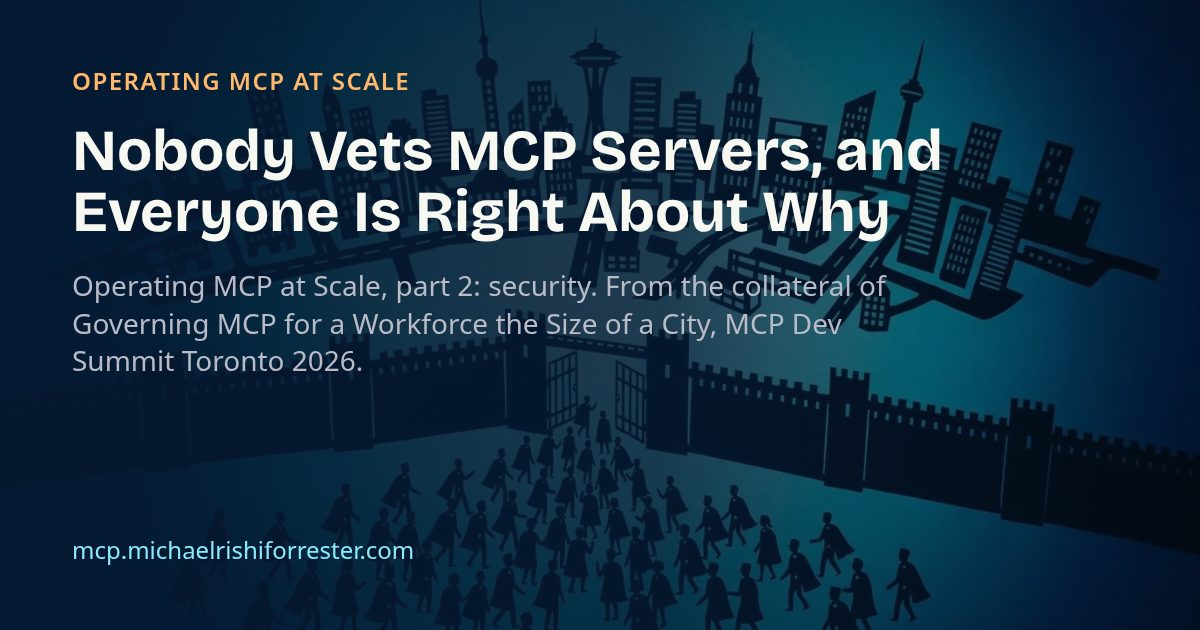
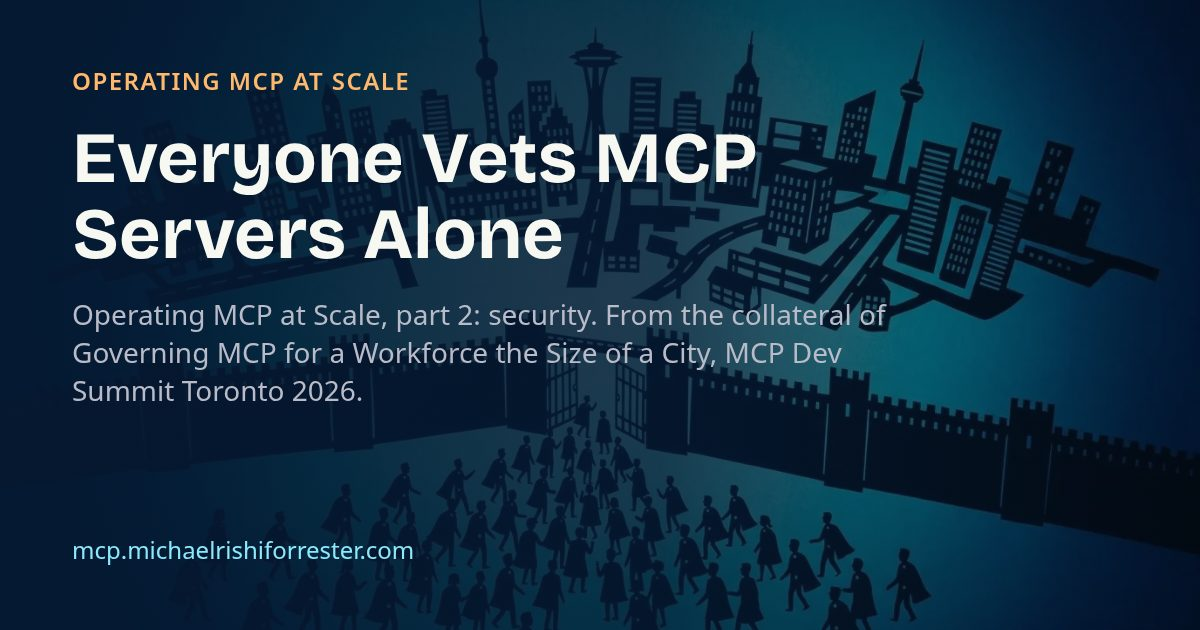
Build the city on a Death Star that reads as one, and open the descent on the statement
The dark disc the city appeared to sit on was the floor of the sky. The
city now stands on a real sphere with the superlaser dish, the
equatorial trench, panel seams and the deck's yellow outline, seen side
on at orbit with the city as its crown, in space with a starfield. The
descent opens on "Two-thirds of a Death Star" with Accenture's
approximately 814,000 people, and a shade behind the title keeps it
readable. Part two carries its new title, Everyone Vets MCP Servers Alone.

Issue #8

Changed region(s): [[0.0617, 0.2111, 0.8017, 0.6333]]

diff --git a/src/scene/Skyline.tsx b/src/scene/Skyline.tsx
@@ -1,14 +1,16 @@
-// ABOUTME: The city at night as instanced silhouettes under a drifting Death Star, in the deck's shadow-play look, lit by the silhouette shader.
+// ABOUTME: The city at night built on a Death Star, in the deck's shadow-play look: silhouette towers on the station's north cap.
 // ABOUTME: Loaded lazily after first paint; nothing here is needed to read the page.
 
 import { Canvas, useFrame } from "@react-three/fiber";
 import { Bloom, EffectComposer } from "@react-three/postprocessing";
 import { useMemo, useRef, type RefObject } from "react";
 import * as THREE from "three";
+import { DEATH_STAR_CENTER, DEATH_STAR_RADIUS, deathStarMaterial } from "./deathStar";
 import { silhouetteMaterial } from "./silhouette";
 import { SkyDome } from "./SkyDome";
 
 const COUNT = 2600;
+const UP = new THREE.Vector3(0, 1, 0);
 const SPREAD = 160;
 
 function seeded(seed: number) {
@@ -21,7 +23,13 @@ function seeded(seed: number) {
 
 function Buildings() {
   const ref = useRef<THREE.InstancedMesh>(null);
-  const material = useMemo(() => silhouetteMaterial(), []);
+  // Fog distances stretched for the orbit view, where the station is 400 units out.
+  const material = useMemo(() => {
+    const m = silhouetteMaterial();
+    m.uniforms.uFogNear.value = 220;
+    m.uniforms.uFogFar.value = 900;
+    return m;
+  }, []);
   useFrame(({ clock }) => {
     const m = ref.current?.material as THREE.ShaderMaterial | undefined;
     if (m) m.uniforms.uTime.value = clock.getElapsedTime();
@@ -36,7 +44,10 @@ function Buildings() {
       const core = 1 - Math.min(1, Math.hypot(x, z) / (SPREAD / 2));
       const h = 1 + rand() * 4 + core * core * rand() * 28;
       const w = 1 + rand() * 2;
-      dummy.position.set(x, h / 2, z);
+      // Stand each tower on the Death Star's surface, upright to the curve.
+      const up = new THREE.Vector3(x, Math.sqrt(DEATH_STAR_RADIUS ** 2 - x * x - z * z), z).normalize();
+      dummy.position.copy(DEATH_STAR_CENTER).addScaledVector(up, DEATH_STAR_RADIUS + h / 2 - 0.3);
+      dummy.quaternion.setFromUnitVectors(UP, up);
       dummy.scale.set(w, h, w);
       dummy.updateMatrix();
       list.push(dummy.matrix.clone());
@@ -59,28 +70,44 @@ function Buildings() {
 }
 
 
-function DeathStar({ progress }: { progress: RefObject<number> }) {
-  const g = useRef<THREE.Group>(null);
-  useFrame(({ clock }) => {
-    if (!g.current) return;
-    const t = clock.getElapsedTime();
-    const p = progress.current ?? 0;
-    // In orbit it hangs above the city; as the camera descends it slides up and out of frame.
-    g.current.position.set(-40 + (t * 0.6) % 110, 42 + Math.sin(t * 0.2) * 2 + p * 260, -70);
-    g.current.rotation.y = t * 0.05;
-    g.current.visible = p < 0.6;
-  });
+/** Stars below the horizon, so the station hangs in space rather than over a dark disc. */
+function Stars() {
+  const points = useMemo(() => {
+    const rand = seeded(1977);
+    const arr = new Float32Array(1400 * 3);
+    for (let i = 0; i < 1400; i++) {
+      const u = rand() * 2 - 1;
+      const t = rand() * Math.PI * 2;
+      const y = -Math.abs(u) * 0.95 - 0.05;
+      const r = Math.sqrt(1 - y * y);
+      arr.set([Math.cos(t) * r * 440, y * 440, Math.sin(t) * r * 440], i * 3);
+    }
+    return arr;
+  }, []);
   return (
-    <group ref={g}>
-      <mesh><sphereGeometry args={[9, 48, 48]} /><meshBasicMaterial color="#02050c" /></mesh>
-      <mesh scale={1.03}><sphereGeometry args={[9, 48, 48]} /><meshBasicMaterial color="#ffc800" side={THREE.BackSide} transparent opacity={0.35} /></mesh>
-      <mesh position={[4.5, 3.5, 6.5]}><sphereGeometry args={[2.2, 24, 24]} /><meshBasicMaterial color="#061a33" /></mesh>
-    </group>
+    <points>
+      <bufferGeometry>
+        <bufferAttribute attach="attributes-position" args={[points, 3]} />
+      </bufferGeometry>
+      <pointsMaterial color="#cfefff" size={1.4} sizeAttenuation={false} transparent opacity={0.85} depthWrite={false} fog={false} />
+    </points>
   );
 }
 
-const ORBIT = new THREE.Vector3(0, 230, 150);
-const STREET = new THREE.Vector3(0, 5, 96);
+/** The station itself, under the city. */
+function DeathStar() {
+  const material = useMemo(() => deathStarMaterial(), []);
+  return (
+    <mesh position={DEATH_STAR_CENTER} material={material}>
+      <sphereGeometry args={[DEATH_STAR_RADIUS, 160, 96]} />
+    </mesh>
+  );
+}
+
+// Orbit sees the station side on, the city a crown on its north cap; the descent rises over the top and lands on the street.
+const ORBIT = new THREE.Vector3(0, 40, 440);
+// Street level on the curve: the surface at z = 96 sits about 38 units below the pole.
+const STREET = new THREE.Vector3(0, -31, 96);
 
 function Rig({ progress }: { progress: RefObject<number> }) {
   const target = useRef(new THREE.Vector3());
@@ -91,10 +118,11 @@ function Rig({ progress }: { progress: RefObject<number> }) {
     // Ease the descent so orbit lingers and the street arrives gently.
     const e = p < 0.5 ? 4 * p * p * p : 1 - (-2 * p + 2) ** 3 / 2;
     target.current.lerpVectors(ORBIT, STREET, e);
-    target.current.x += Math.sin(t * 0.05) * 20 * (1 - e) + pointer.x * 6;
+    target.current.x += Math.sin(t * 0.05) * 8 * (1 - e) + pointer.x * 6;
     target.current.y += pointer.y * 3 * (1 - e);
     camera.position.lerp(target.current, 0.08);
-    look.current.set(0, 6 + e * 6, 0);
+    // Looking left of the station at orbit puts it on the right of the frame, beside the title.
+    look.current.set(-250 * (1 - e), -120 * (1 - e) - 12 * e, 0);
     camera.lookAt(look.current);
   });
   return null;
@@ -102,11 +130,12 @@ function Rig({ progress }: { progress: RefObject<number> }) {
 
 export default function Skyline({ progress, active = true }: { progress: RefObject<number>; active?: boolean }) {
   return (
-    <Canvas frameloop={active ? "always" : "never"} dpr={[1, 1.5]} gl={{ alpha: false, antialias: false, powerPreference: "high-performance" }} camera={{ position: [0, 230, 150], fov: 50, near: 0.5, far: 600 }}>
+    <Canvas frameloop={active ? "always" : "never"} dpr={[1, 1.5]} gl={{ alpha: false, antialias: false, powerPreference: "high-performance" }} camera={{ position: [0, 40, 440], fov: 50, near: 0.5, far: 1200 }}>
       <fog attach="fog" args={["#07264a", 80, 420]} />
       <SkyDome />
       <Buildings />
-      <DeathStar progress={progress} />
+      <Stars />
+      <DeathStar />
       <Rig progress={progress} />
       <EffectComposer multisampling={0}>
         <Bloom intensity={0.9} luminanceThreshold={0.4} luminanceSmoothing={0.3} mipmapBlur />

diff --git a/src/scene/deathStar.ts b/src/scene/deathStar.ts
@@ -1,0 +1,93 @@
+// ABOUTME: The Death Star the city is built on: a dark sphere with the superlaser dish, the equatorial trench, panel seams and the deck's yellow rim.
+// ABOUTME: Line work over a near-black body, so it reads as the Death Star in the same shadow-play style as the towers on top of it.
+
+import * as THREE from "three";
+
+/** Radius of the Death Star in scene units; the city's 160-unit spread sits on its north cap. */
+export const DEATH_STAR_RADIUS = 140;
+/** The sphere's centre, placed so its north pole is at y = 0 under the city. */
+export const DEATH_STAR_CENTER = new THREE.Vector3(0, -DEATH_STAR_RADIUS, 0);
+/** Where the superlaser dish faces: upper left as seen from orbit, the station's classic three-quarter view, just below the city's cap. */
+export const DISH_DIRECTION = new THREE.Vector3(-0.42, 0.56, 0.71).normalize();
+
+const vertex = /* glsl */ `
+  varying vec3 vDir;
+  varying vec3 vNormalW;
+  varying vec3 vView;
+  varying float vDepth;
+  void main() {
+    vDir = normalize(position);
+    vec4 world = modelMatrix * vec4(position, 1.0);
+    vNormalW = normalize(mat3(modelMatrix) * normal);
+    vView = normalize(cameraPosition - world.xyz);
+    vec4 mv = viewMatrix * world;
+    vDepth = -mv.z;
+    gl_Position = projectionMatrix * mv;
+  }
+`;
+
+const fragment = /* glsl */ `
+  uniform vec3 uBody;
+  uniform vec3 uLine;
+  uniform vec3 uRim;
+  uniform vec3 uDish;
+  uniform vec3 uDishDir;
+  uniform vec3 uFog;
+  uniform float uFogNear;
+  uniform float uFogFar;
+  varying vec3 vDir;
+  varying vec3 vNormalW;
+  varying vec3 vView;
+  varying float vDepth;
+
+  float line(float v, float width) { float d = abs(fract(v) - 0.5); return 1.0 - smoothstep(0.5 - width, 0.5, d); }
+
+  void main() {
+    vec3 color = uBody;
+    float lat = asin(clamp(vDir.y, -1.0, 1.0));
+    float lon = atan(vDir.z, vDir.x);
+
+    // Panel seams: a latitude and longitude grid, faint, the way the station's plating reads from orbit.
+    float seams = max(line(lat * 18.0 / 3.14159, 0.03), line(lon * 24.0 / 3.14159, 0.03));
+    color += uLine * seams * 0.22;
+
+    // The equatorial trench: a dark band with lit edges.
+    float band = abs(lat);
+    float trench = 1.0 - smoothstep(0.018, 0.03, band);
+    color = mix(color, uBody * 0.3, trench);
+    color += uLine * (smoothstep(0.03, 0.026, band) - smoothstep(0.026, 0.018, band)) * 0.9;
+
+    // The superlaser dish: a shallow disc with two bright rings and a focus point.
+    float a = acos(clamp(dot(vDir, uDishDir), -1.0, 1.0));
+    float dishR = 0.30;
+    float inDish = 1.0 - smoothstep(dishR - 0.006, dishR, a);
+    color = mix(color, uBody * 0.55, inDish);
+    color += uDish * (1.0 - smoothstep(0.0, 0.012, abs(a - dishR))) * 1.1;
+    color += uDish * (1.0 - smoothstep(0.0, 0.008, abs(a - dishR * 0.55))) * 0.5;
+    color += uDish * (1.0 - smoothstep(0.0, 0.03, a)) * 1.4;
+
+    // The outline that makes it the Death Star at a glance: the deck's yellow, brightest at the silhouette.
+    float rim = pow(1.0 - max(dot(normalize(vNormalW), vView), 0.0), 6.0);
+    color += uRim * rim * 0.8;
+
+    float fog = smoothstep(uFogNear, uFogFar, vDepth);
+    gl_FragColor = vec4(mix(color, uFog, fog * 0.3), 1.0);
+  }
+`;
+
+export function deathStarMaterial(): THREE.ShaderMaterial {
+  return new THREE.ShaderMaterial({
+    vertexShader: vertex,
+    fragmentShader: fragment,
+    uniforms: {
+      uBody: { value: new THREE.Color("#0c182b") },
+      uLine: { value: new THREE.Color("#04c0da") },
+      uRim: { value: new THREE.Color("#ffc800") },
+      uDish: { value: new THREE.Color("#7fe9f7") },
+      uFog: { value: new THREE.Color("#07264a") },
+      uFogNear: { value: 220 },
+      uFogFar: { value: 900 },
+      uDishDir: { value: DISH_DIRECTION.clone() },
+    },
+  });
+}

diff --git a/scripts/sync-collateral.ts b/scripts/sync-collateral.ts
@@ -42,7 +42,7 @@ export const COLLATERAL: Collateral[] = [
   { src: "06-research-and-source-ledger/craft/ship-crews.md", slug: "research/ship-crews", title: "Starship Crew Sizes", topic: "The specification and the numbers" },
   { src: "10-operating-mcp-at-scale-series/operating-mcp-checklist.md", slug: "articles/operating-mcp-checklist", title: "Operating MCP at Scale: the enterprise checklist for 2026-07-28", series: "Operating MCP at Scale, the companion checklist: start here", status: "draft, under review" },
   { src: "10-operating-mcp-at-scale-series/part-1-operational-excellence.md", slug: "articles/part-1-operational-excellence", title: "The Protocol Moved Under You and Nobody Migrates You", series: "Operating MCP at Scale, part 1: operational excellence", status: "draft, under review" },
-  { src: "10-operating-mcp-at-scale-series/part-2-security.md", slug: "articles/part-2-security", title: "Nobody Vets MCP Servers, and Everyone Is Right About Why", series: "Operating MCP at Scale, part 2: security", status: "draft, under review" },
+  { src: "10-operating-mcp-at-scale-series/part-2-security.md", slug: "articles/part-2-security", title: "Everyone Vets MCP Servers Alone", series: "Operating MCP at Scale, part 2: security", status: "draft, under review" },
   { src: "10-operating-mcp-at-scale-series/part-3-reliability.md", slug: "articles/part-3-reliability", title: "Your Health Check Is Speaking a Different Protocol Version", series: "Operating MCP at Scale, part 3: reliability", status: "draft, under review" },
   { src: "10-operating-mcp-at-scale-series/part-4-performance.md", slug: "articles/part-4-performance", title: "Where an MCP Call Spends Its Time", series: "Operating MCP at Scale, part 4: performance", status: "draft, under review" },
   { src: "10-operating-mcp-at-scale-series/part-5-cost.md", slug: "articles/part-5-cost", title: "The MCP Bill Is Hiding in the Token Bill", series: "Operating MCP at Scale, part 5: cost", status: "draft, under review" },

diff --git a/src/components/Hero.tsx b/src/components/Hero.tsx
@@ -42,7 +42,24 @@ export function Hero() {
             </div>
           </Suspense>
         )}
+        {show && (
+          // A soft shade behind the words, so the title reads over the station and the city.
+          <div className="pointer-events-none absolute inset-0 bg-gradient-to-r from-[#051932]/80 via-[#051932]/35 to-transparent" aria-hidden="true" />
+        )}
         {wants && <ShipHud progress={progress} />}
+        {wants && (
+          // The statement the descent opens on: the city is built on a Death Star, and the workforce is two-thirds of one.
+          <div
+            className="pointer-events-none absolute left-0 right-0 top-24 measure-wide transition-opacity duration-500"
+            style={{ opacity: Math.max(0, 1 - progress * 6) }}
+            data-testid="death-star-statement"
+          >
+            <p className="font-[family-name:var(--font-display)] text-3xl font-semibold text-[#ffc800] sm:text-4xl">Two-thirds of a Death Star.</p>
+            <p className="mt-2 max-w-xl text-lg text-[color:var(--color-ink)]">
+              Approximately 814,000 people at Accenture. A Death Star carries about 1.2 million. <a href="/scale/" className="pointer-events-auto underline underline-offset-4">The ladder</a>
+            </p>
+          </div>
+        )}
         <div className="relative measure-wide pb-16 pt-32">
           <p className="text-sm font-semibold uppercase tracking-wide text-[color:var(--color-accent)]">
             <a href={TALK.eventUrl} className="underline underline-offset-4">{TALK.event}</a>, {TALK.when}

diff --git a/src/scene/deathStar.test.ts b/src/scene/deathStar.test.ts
@@ -1,0 +1,21 @@
+// ABOUTME: The Death Star sits under the city with its pole at ground level, and its dish faces out of the city's cap.
+// ABOUTME: The look is checked by eye in a GPU browser; this guards the geometry the towers and the camera depend on.
+
+import { describe, expect, it } from "vitest";
+import { DEATH_STAR_CENTER, DEATH_STAR_RADIUS, DISH_DIRECTION, deathStarMaterial } from "./deathStar";
+
+describe("death star", () => {
+  it("has its north pole at y = 0, under the city", () => {
+    expect(DEATH_STAR_CENTER.y + DEATH_STAR_RADIUS).toBe(0);
+  });
+  it("is wide enough to carry the city's 160-unit spread on its cap", () => {
+    expect(DEATH_STAR_RADIUS).toBeGreaterThan(Math.hypot(80, 80));
+  });
+  it("points the dish below the city's cap, where it can be seen", () => {
+    const capAngle = Math.asin(Math.hypot(80, 80) / DEATH_STAR_RADIUS);
+    expect(Math.acos(DISH_DIRECTION.y)).toBeGreaterThan(capAngle);
+  });
+  it("outlines the station in the deck's yellow", () => {
+    expect(`#${deathStarMaterial().uniforms.uRim.value.getHexString()}`).toBe("#ffc800");
+  });
+});

diff --git a/e2e/pages.spec.ts b/e2e/pages.spec.ts
@@ -14,7 +14,7 @@ const PAGES: [string, string][] = [
   ["/resources/", "Resources"],
   ["/resources/source-ledger/", "ledger"],
   ["/resources/art/", "The art"],
-  ["/resources/articles/part-2-security/", "Nobody Vets MCP Servers"],
+  ["/resources/articles/part-2-security/", "Everyone Vets MCP Servers Alone"],
 ];
 
 for (const [path, name] of PAGES) {
@@ -116,4 +116,12 @@ test("every page carries the cookieless visit counter, limited to the live domai
 test("the hero gives the keynote's scheduled slot", async ({ page }) => {
   await page.goto("/");
   await expect(page.getByText("Tuesday, October 6, 2026, 9:59 EDT")).toBeVisible();
+});
+
+test("the descent opens on the Death Star statement", async ({ page }) => {
+  test.skip((page.viewportSize()?.width ?? 0) < 768, "phones get the poster, not the descent");
+  await page.goto("/?gpu=1");
+  const statement = page.getByTestId("death-star-statement");
+  await expect(statement).toContainText("Two-thirds of a Death Star.");
+  await expect(statement).toContainText("814,000");
 });

diff --git a/resources/articles/part-2-security/index.html b/resources/articles/part-2-security/index.html
@@ -3,9 +3,9 @@
   <head>
     <meta charset="UTF-8" />
     <meta name="viewport" content="width=device-width, initial-scale=1.0" />
-    <title>Nobody Vets MCP Servers, and Everyone Is Right About Why</title>
+    <title>Everyone Vets MCP Servers Alone</title>
     <meta name="description" content="Operating MCP at Scale, part 2: security. From the collateral of Governing MCP for a Workforce the Size of a City, MCP Dev Summit Toronto 2026." />
-    <meta property="og:title" content="Nobody Vets MCP Servers, and Everyone Is Right About Why" />
+    <meta property="og:title" content="Everyone Vets MCP Servers Alone" />
     <meta property="og:image" content="https://mcp.michaelrishiforrester.com/og/resources-articles-part-2-security.jpg" />
     <meta name="twitter:card" content="summary_large_image" />
     <meta name="twitter:image" content="https://mcp.michaelrishiforrester.com/og/resources-articles-part-2-security.jpg" />
